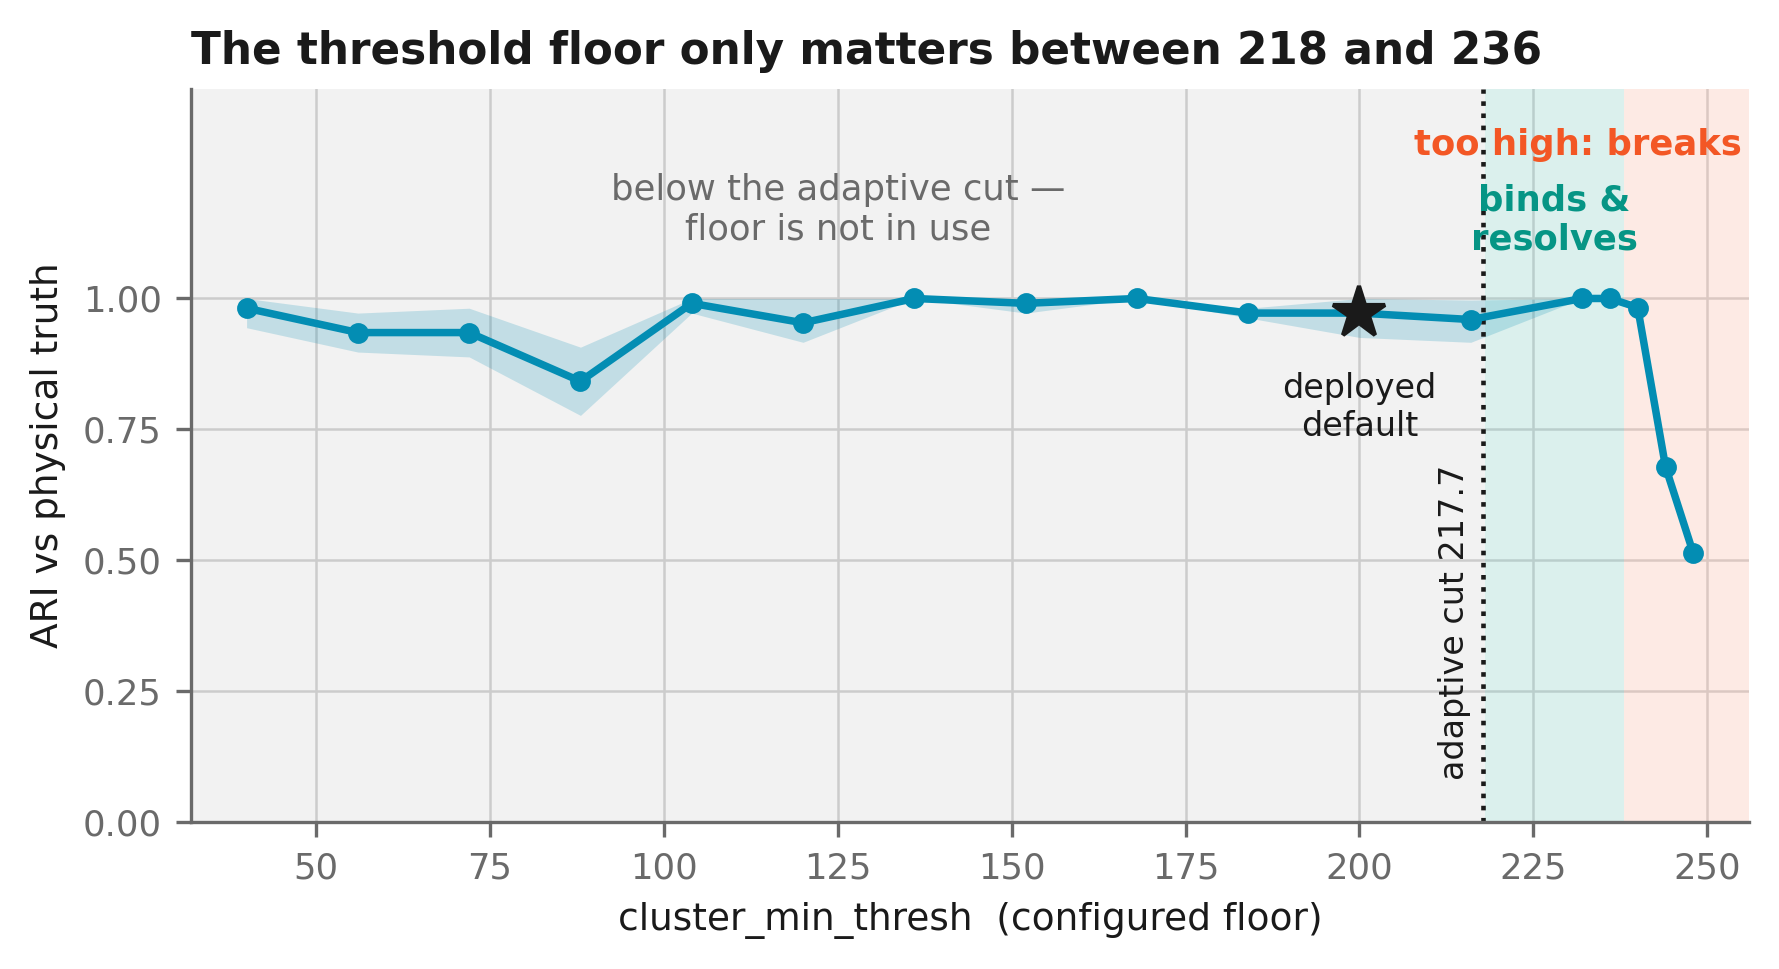
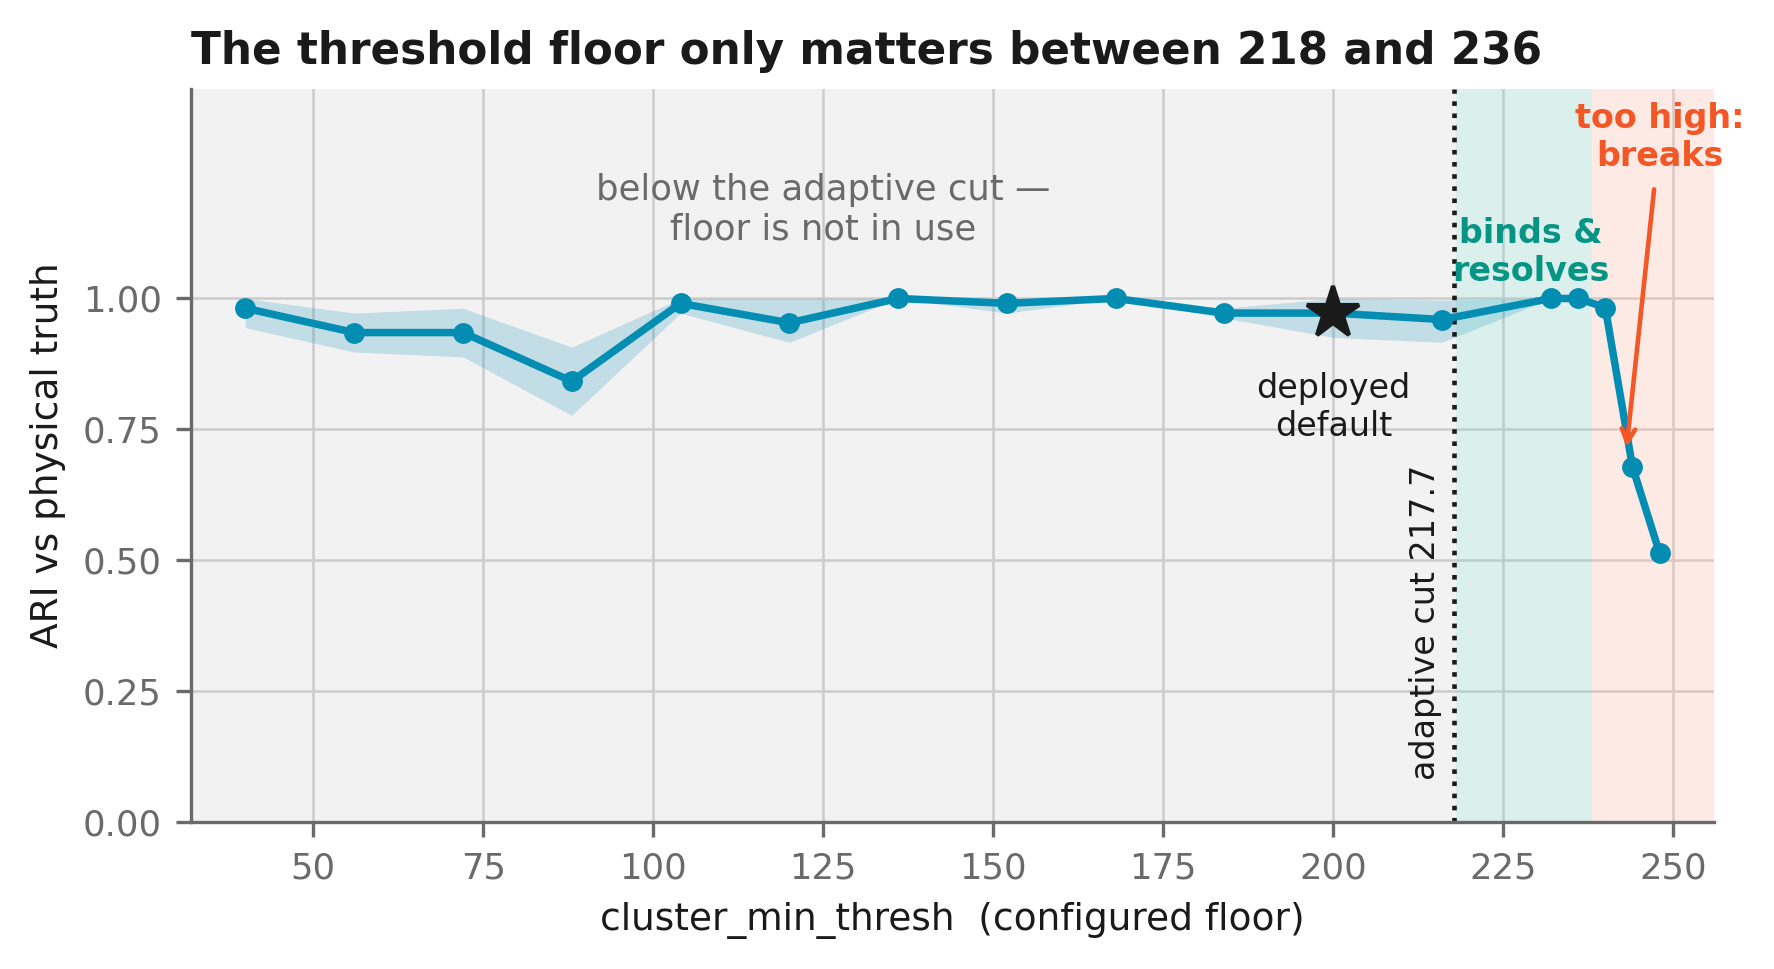
figures: place the E2 region labels in the regions they describe
'too high: breaks' ran backwards across the green band; it now sits in the
orange band with an arrow to the knee. 'binds & resolves' had its left edge on
the adaptive-cut line; shifted clear.

Claude-Session: https://claude.ai/code/session_0199TePCg5kTEVBqaP392G4K

diff --git a/tools/make_calibration_figs.py b/tools/make_calibration_figs.py
@@ -118,8 +118,10 @@ def fig_e2_v2():
     ax.axvspan(218, 238, color=GREEN, alpha=0.14, lw=0)
     ax.axvspan(238, 256, color=VERM, alpha=0.12, lw=0)
     ax.text(125, 1.10, "below the adaptive cut —\nfloor is not in use", ha="center", va="bottom", fontsize=8.5, color=MUTED)
-    ax.text(228, 1.08, "binds &\nresolves", ha="center", va="bottom", fontsize=8.5, color=GREEN, fontweight="bold")
-    ax.text(255, 1.26, "too high: breaks", ha="right", va="bottom", fontsize=8.5, color=VERM, fontweight="bold")
+    ax.text(229, 1.02, "binds &\nresolves", ha="center", va="bottom", fontsize=8, color=GREEN, fontweight="bold")
+    ax.annotate("too high:\nbreaks", xy=(243, 0.70), xytext=(248, 1.24),
+                ha="center", va="bottom", fontsize=8, color=VERM, fontweight="bold",
+                arrowprops=dict(arrowstyle="->", color=VERM, lw=1.1, shrinkA=2, shrinkB=2))
     ax.axvline(217.7, color=INK, lw=1.1, ls=":")
     ax.text(216, 0.08, "adaptive cut 217.7", rotation=90, ha="right", va="bottom", fontsize=8, color=INK)
     ax.fill_between(t, lo, hi, color=BLUE, alpha=0.2, lw=0)
